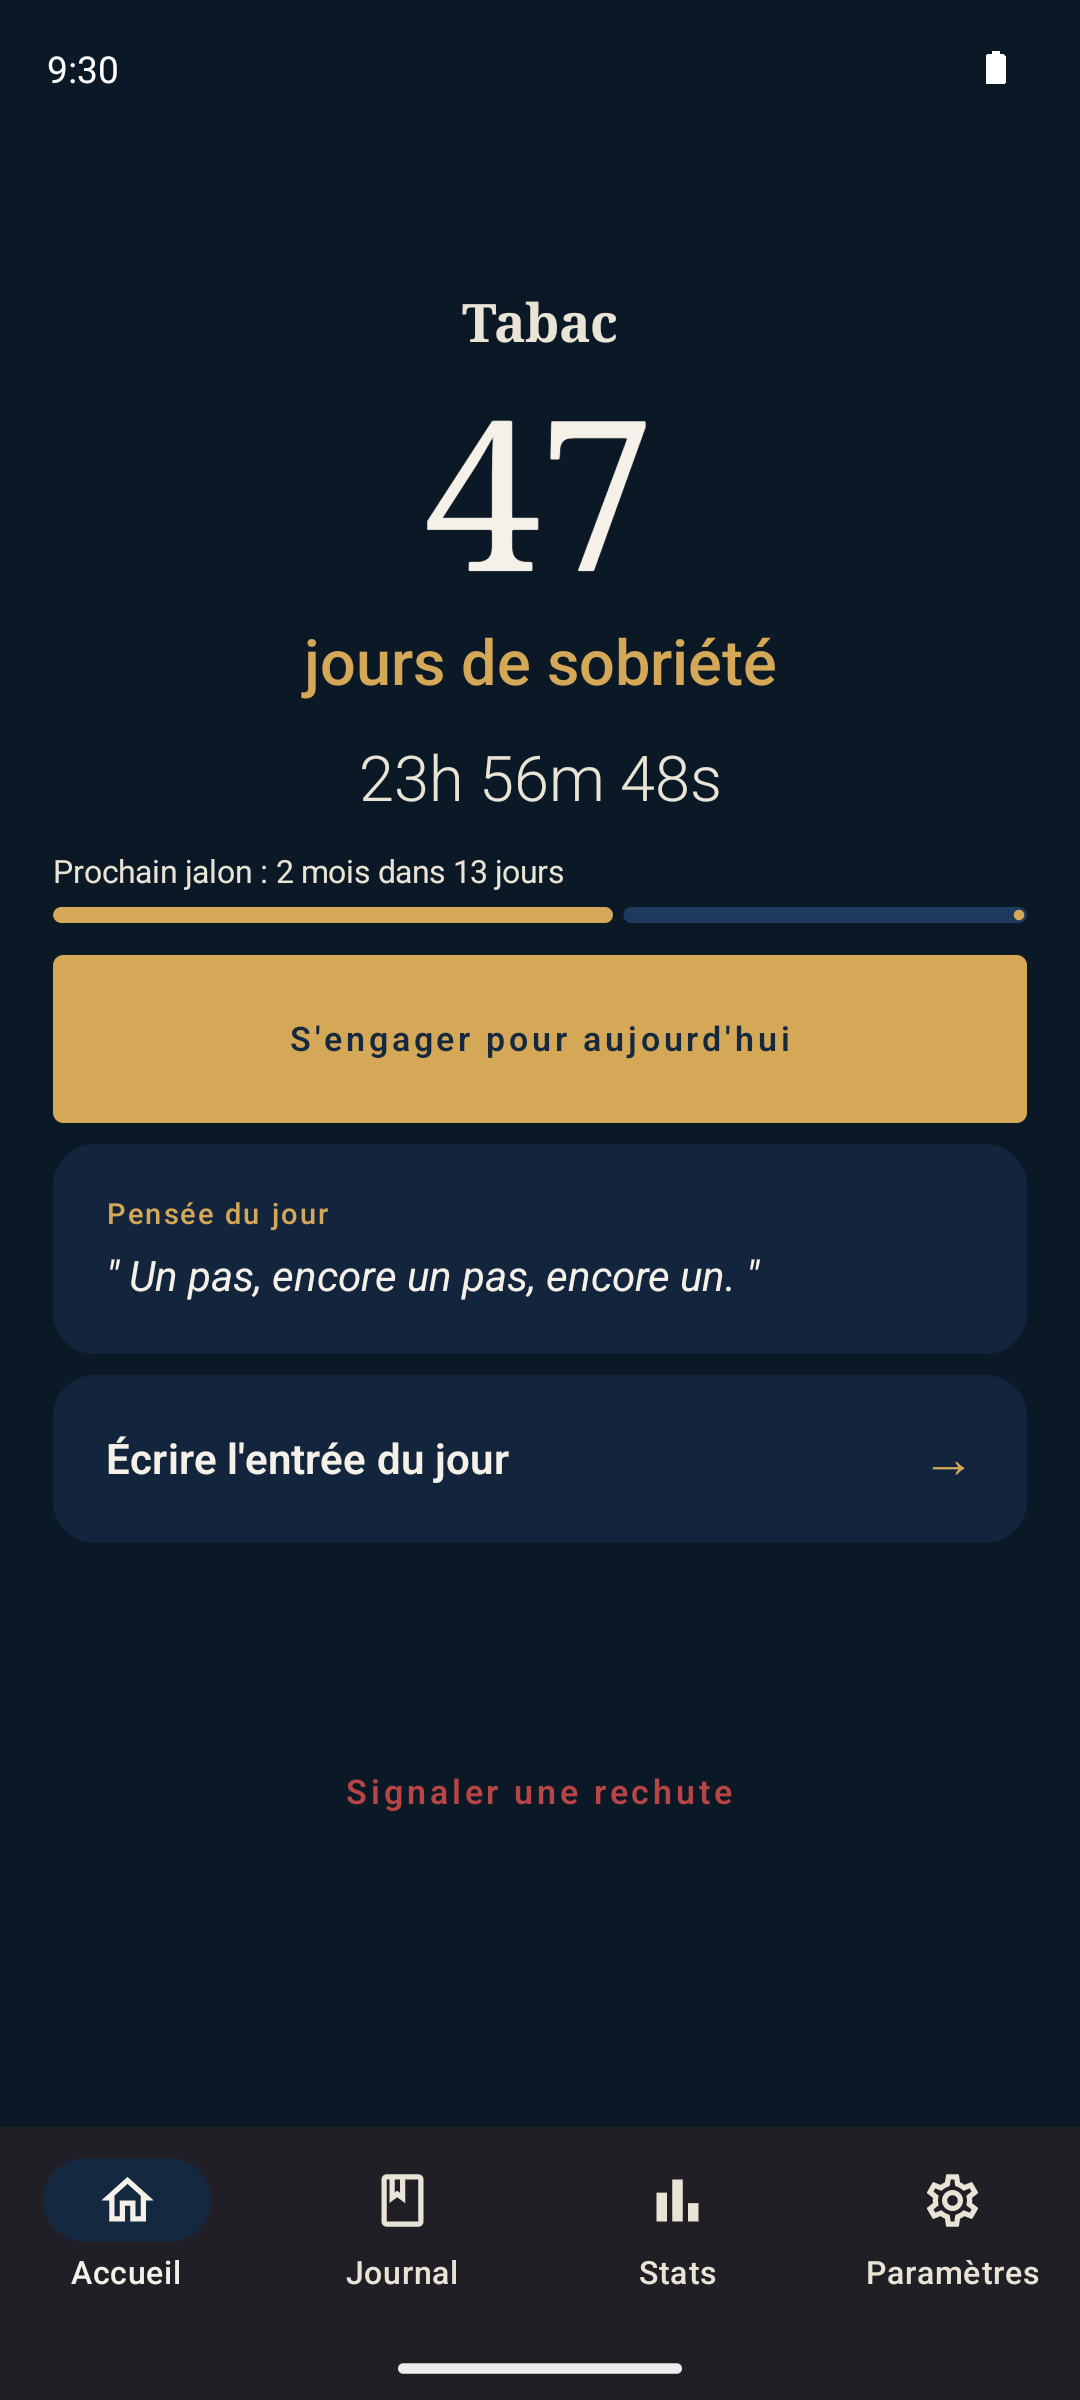
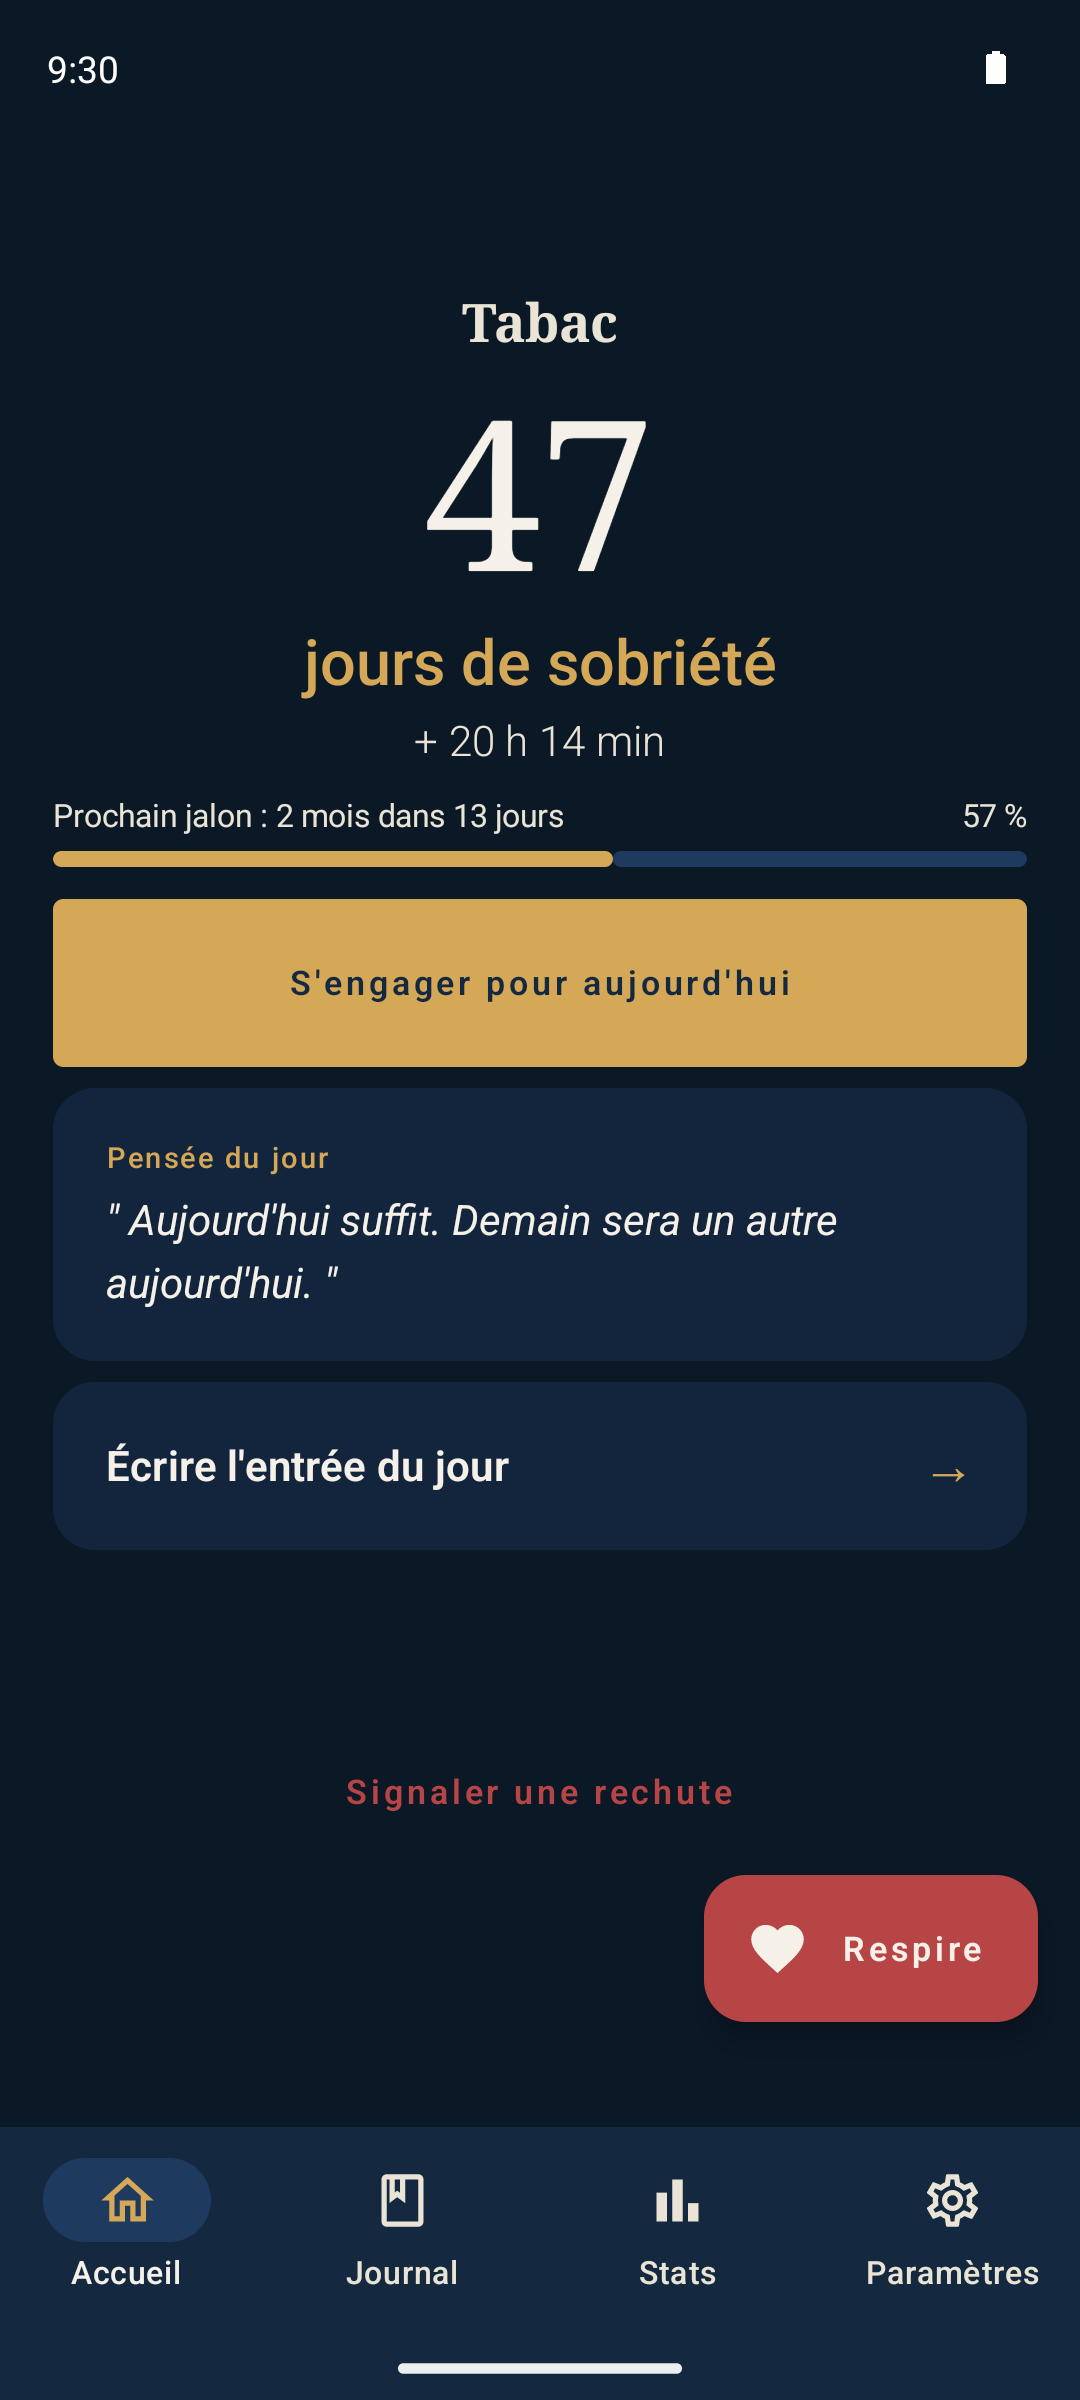
Release 1.2.0 prep: settle shield status, new screenshots
- Accessibility changes fire before Android binds the service: read the
  state again after 2 s so a freshly enabled shield is not flagged
- Screenshots and README updated for the redesign
- Version 1.2.0 (versionCode 5)

diff --git a/app/src/main/kotlin/com/clairjour/app/ui/ClairjourApp.kt b/app/src/main/kotlin/com/clairjour/app/ui/ClairjourApp.kt
@@ -1,6 +1,5 @@
 package com.clairjour.app.ui
 
-import android.view.accessibility.AccessibilityManager
 import androidx.compose.foundation.layout.PaddingValues
 import androidx.compose.foundation.layout.padding
 import androidx.compose.material.icons.Icons
@@ -28,7 +27,6 @@ import androidx.compose.ui.platform.LocalContext
 import androidx.compose.ui.res.stringResource
 import androidx.compose.ui.semantics.contentDescription
 import androidx.compose.ui.semantics.semantics
-import androidx.lifecycle.compose.LifecycleResumeEffect
 import androidx.navigation.NavDestination.Companion.hierarchy
 import androidx.navigation.NavGraph.Companion.findStartDestination
 import androidx.navigation.compose.currentBackStackEntryAsState
@@ -40,6 +38,7 @@ import com.clairjour.app.shield.ShieldServiceState
 import com.clairjour.app.shield.ShieldServiceStatus
 import com.clairjour.app.ui.navigation.ClairjourNavHost
 import com.clairjour.app.ui.navigation.Destinations
+import com.clairjour.app.ui.screen.shield.ShieldStatusEffect
 
 private data class BottomTab(
     val route: String,
@@ -64,15 +63,7 @@ fun ClairjourApp(container: AppContainer) {
     val context = LocalContext.current
     val shieldSettings by container.settingsRepository.shieldSettingsFlow.collectAsState(initial = null)
     var shieldServiceState by remember { mutableStateOf(ShieldServiceState.OFF) }
-    LifecycleResumeEffect(Unit) {
-        shieldServiceState = ShieldServiceStatus.state(context)
-        val accessibilityManager = context.getSystemService(AccessibilityManager::class.java)
-        val listener = AccessibilityManager.AccessibilityStateChangeListener {
-            shieldServiceState = ShieldServiceStatus.state(context)
-        }
-        accessibilityManager?.addAccessibilityStateChangeListener(listener)
-        onPauseOrDispose { accessibilityManager?.removeAccessibilityStateChangeListener(listener) }
-    }
+    ShieldStatusEffect { shieldServiceState = ShieldServiceStatus.state(context) }
     val shieldNeedsAttention = ShieldKeepAlive.needsAttention(
         serviceState = shieldServiceState,
         shieldWanted = shieldSettings?.enabled == true

diff --git a/app/src/main/kotlin/com/clairjour/app/ui/screen/shield/ShieldStatusEffect.kt b/app/src/main/kotlin/com/clairjour/app/ui/screen/shield/ShieldStatusEffect.kt
@@ -1,0 +1,36 @@
+package com.clairjour.app.ui.screen.shield
+
+import android.view.accessibility.AccessibilityManager
+import androidx.compose.runtime.Composable
+import androidx.compose.runtime.rememberCoroutineScope
+import androidx.compose.ui.platform.LocalContext
+import androidx.lifecycle.compose.LifecycleResumeEffect
+import kotlinx.coroutines.delay
+import kotlinx.coroutines.launch
+
+/** Time Android needs to bind the service after it is switched on in the settings. */
+private const val BIND_SETTLE_MILLIS = 2_000L
+
+/**
+ * Calls [onRefresh] when the screen resumes and whenever accessibility settings change.
+ * A change fires before Android binds the service, so the state is read again once it settled:
+ * otherwise a freshly enabled shield would look "stopped by the phone".
+ */
+@Composable
+fun ShieldStatusEffect(onRefresh: () -> Unit) {
+    val context = LocalContext.current
+    val scope = rememberCoroutineScope()
+    LifecycleResumeEffect(Unit) {
+        onRefresh()
+        val accessibilityManager = context.getSystemService(AccessibilityManager::class.java)
+        val listener = AccessibilityManager.AccessibilityStateChangeListener {
+            onRefresh()
+            scope.launch {
+                delay(BIND_SETTLE_MILLIS)
+                onRefresh()
+            }
+        }
+        accessibilityManager?.addAccessibilityStateChangeListener(listener)
+        onPauseOrDispose { accessibilityManager?.removeAccessibilityStateChangeListener(listener) }
+    }
+}

diff --git a/app/src/main/kotlin/com/clairjour/app/ui/screen/shield/ShieldScreen.kt b/app/src/main/kotlin/com/clairjour/app/ui/screen/shield/ShieldScreen.kt
@@ -1,6 +1,5 @@
 package com.clairjour.app.ui.screen.shield
 
-import android.view.accessibility.AccessibilityManager
 import androidx.compose.foundation.background
 import androidx.compose.foundation.layout.Column
 import androidx.compose.foundation.layout.Row
@@ -43,7 +42,6 @@ import androidx.compose.ui.Modifier
 import androidx.compose.ui.platform.LocalContext
 import androidx.compose.ui.res.stringResource
 import androidx.compose.ui.unit.dp
-import androidx.lifecycle.compose.LifecycleResumeEffect
 import androidx.lifecycle.viewmodel.compose.viewModel
 import com.clairjour.app.BuildConfig
 import com.clairjour.app.R
@@ -98,13 +96,7 @@ fun ShieldScreen(container: AppContainer, onBack: () -> Unit) {
 
     // The user enables the service in Android settings: re-check whenever the screen comes back,
     // and live while it is shown (HyperOS can kill the service at any time).
-    LifecycleResumeEffect(Unit) {
-        refreshStatus()
-        val accessibilityManager = context.getSystemService(AccessibilityManager::class.java)
-        val listener = AccessibilityManager.AccessibilityStateChangeListener { refreshStatus() }
-        accessibilityManager?.addAccessibilityStateChangeListener(listener)
-        onPauseOrDispose { accessibilityManager?.removeAccessibilityStateChangeListener(listener) }
-    }
+    ShieldStatusEffect(onRefresh = refreshStatus)
 
     if (showDisclosure) {
         AlertDialog(

diff --git a/SUIVI.md b/SUIVI.md
@@ -1,7 +1,7 @@
 # Clairjour — SUIVI.md
 
 ## 🧭 Ligne directrice
-**État** (2026-11-06, v1.1.1, versionCode 4) : Bouclier Instagram v2 publié (release v1.1.1). **v1.2 cadrée** : refonte visuelle (Accueil minimal, Stats calendrier + badges, Journal recherche, Bouclier réordonné, couleurs de thème corrigées) + optimisation (APK, stack, compteur). Spec : `docs/superpowers/specs/2026-11-06-v1.2-refonte-design.md`, maquettes : `mockups/v1.2-refonte.html`. R1 fait (APK release 13,2 Mo). R1→R7 faits (APK 13,2 Mo, thème, Accueil, Stats, Journal, Bouclier, pastille). Prochaine priorité : **R8 vérif Redmi + captures + release v1.2.0**.
+**État** (2026-11-06, v1.1.1, versionCode 4) : Bouclier Instagram v2 publié (release v1.1.1). **v1.2 cadrée** : refonte visuelle (Accueil minimal, Stats calendrier + badges, Journal recherche, Bouclier réordonné, couleurs de thème corrigées) + optimisation (APK, stack, compteur). Spec : `docs/superpowers/specs/2026-11-06-v1.2-refonte-design.md`, maquettes : `mockups/v1.2-refonte.html`. R1 fait (APK release 13,2 Mo). R1→R7 faits (APK 13,2 Mo, thème, Accueil, Stats, Journal, Bouclier, pastille) + 2 bugs corrigés (cascade de jalons, fausse pastille). Version 1.2.0 prête (captures + README faits), non poussée. Prochaine priorité : **vérif sur le Redmi, puis push + release v1.2.0**.
 
 ## ✅ Fait (v0.1 + v0.2)
 ### v0.1 initial
@@ -81,7 +81,8 @@ Principe : `AccessibilityService` qui lit l'écran d'Instagram (app officielle i
 - [x] **R6** (2026-11-06) Bouclier : statut → interrupteurs → section « Fiabilité » en bas ; carte « Garder le bouclier allumé » repliée avec « ✓ fait » quand `ShieldKeepAlive.isDone` (batterie sans restriction + démarrage auto non refusé), dépliée sinon ; 4 tests. Repli à vérifier sur le Redmi (émulateur : batterie non réglée → dépliée, attendu)
 - [x] **R7** (2026-11-06) Pastille rouge (`BadgedBox`) sur l'onglet Paramètres quand `ShieldKeepAlive.needsAttention` (bouclier voulu + `STOPPED_BY_SYSTEM`), état relu à chaque retour dans l'app + écoute accessibilité ; test unitaire. ⚠ Non simulable sur émulateur (le système relance le service aussitôt ; `am force-stop` retire le service des réglages → état OFF) → à vérifier sur le Redmi
 - [x] **Bug jalons** (2026-11-06) Reculer la date « Sobre depuis » d'un domaine existant déclenchait une cascade de célébrations (1 jour, 3 jours…) : le remplissage « déjà vus » n'existait qu'à la création → `markPastMilestonesSeen` partagé par `create` et `update` (`AddictionRepositoryTest`). Vérifié sur émulateur
-- [ ] **R8** Vérif Redmi + captures + release v1.2.0 (versionCode 5)
+- [x] **R8a** (2026-11-06) Faux positif de la pastille corrigé : l'écouteur d'accessibilité se déclenche avant qu'Android lie le service → `ShieldStatusEffect` relit l'état 2 s après chaque changement (Accueil + page Bouclier). Pastille vue à l'écran (rendu OK). Captures `docs/screenshots/` refaites (émulateur Pixel_7, mode démo, données fictives 47 j / 11 €), README à jour, version **1.2.0 (versionCode 5)**
+- [ ] **R8** Vérif Redmi (repli carte Fiabilité, pastille si HyperOS coupe le bouclier, temps d'ouverture de la base, « evaluation took N ms ») puis push + release v1.2.0
 
 ## ⏳ Reste à faire
 - [ ] Date « Sobre depuis » affichée en anglais (« Sep 20, 2026 ») dans l'écran Modifier un domaine en français

diff --git a/README.md b/README.md
@@ -19,8 +19,9 @@ Application Android de suivi de sobriété multi-addictions — compteur temps r
 ## Fonctionnalités
 
 - **Multi-addictions** — suivre plusieurs domaines en parallèle (tabac, alcool, sucre, écrans, etc.).
-- **Compteur XL** — jours + heures/minutes/secondes, avec ligne calendaire année/mois/jour dès un mois de sobriété.
-- **Journal** — entrées libres, filtres, swipe-to-dismiss avec confirmation.
+- **Accueil épuré** — compteur de jours + heures/minutes, barre continue vers le prochain jalon avec pourcentage, engagement du jour, bouton « Respire ».
+- **Journal** — entrées regroupées par semaine, recherche insensible aux accents, filtres humeur/envies, couleur selon l'humeur, swipe-to-dismiss avec confirmation.
+- **Statistiques** — série et record, économies (total et par jour), frise de jalons, calendrier mensuel sobre / journal / rechute, humeur et déclencheurs fréquents.
 - **Jalons animés** — 1/3/7/14/30/60/90/180/365 jours + célébration overlay quand un jalon tombe.
 - **Rechute + undo** — bouton direct sur la Home, snackbar d'annulation avec restauration des milestones.
 - **Panic button** — écran de crise dédié par addiction, avec raisons personnelles.
@@ -28,11 +29,11 @@ Application Android de suivi de sobriété multi-addictions — compteur temps r
 - **SQLCipher** — base Room chiffrée, clé stockée dans `EncryptedSharedPreferences`.
 - **i18n** — FR/EN, sélecteur in-app (lit `LocalConfiguration.current`, jamais `Locale.getDefault()`).
 - **Widget Home + notifications** privées (`VISIBILITY_SECRET`).
-- **Bouclier Instagram** — service d'accessibilité qui bloque l'onglet Reels, les reels ouverts ailleurs (un seul reel partagé en message ou en story), la grille Explorer (masquée, raccourci « Chercher un compte »), force la recherche sur l'onglet Comptes ; fil et stories en option. Règles modulables, rien n'est enregistré ni envoyé.
+- **Bouclier Instagram** — service d'accessibilité qui bloque l'onglet Reels, les reels ouverts ailleurs (un seul reel partagé en message ou en story), la grille Explorer (masquée, raccourci « Chercher un compte »), force la recherche sur l'onglet Comptes ; fil et stories en option. Règles modulables, rien n'est enregistré ni envoyé. Une pastille sur l'onglet Paramètres signale un bouclier coupé par le téléphone.
 
 ## Stack
 
-Kotlin 2.0 · Jetpack Compose (BOM) · Room + SQLCipher · DataStore (multi-processus pour le bouclier) · AccessibilityService · WorkManager · Vico charts · Glance widget · AGP 8.7 · Java 17.
+Kotlin 2.1 · Jetpack Compose (BOM) · Room + SQLCipher · DataStore (multi-processus pour le bouclier) · AccessibilityService · WorkManager · Glance widget · AGP 9.1 · Java 17. APK release ~13 Mo (bibliothèques natives ARM uniquement).
 
 Pas de DI (ni Hilt ni Koin) — injection manuelle via `AppContainer`.
 
